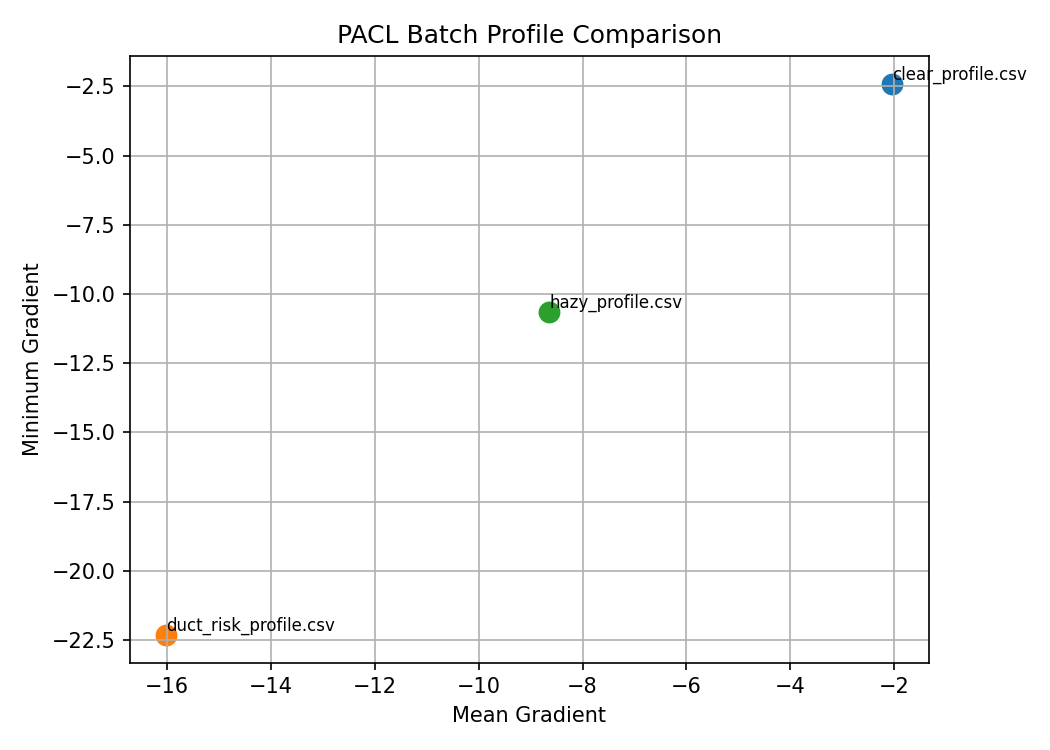
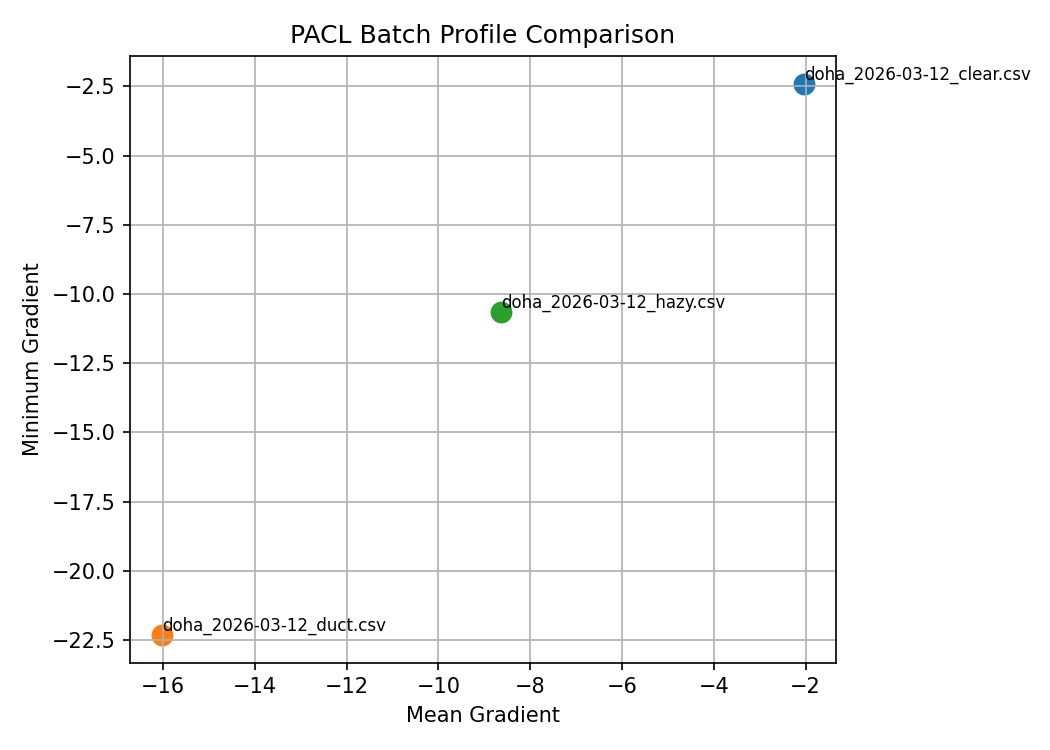
Add one-command PACL Layer 1 runner

diff --git a/docs/batch_report.md b/docs/batch_report.md
@@ -6,9 +6,9 @@ This report summarizes the current multi-profile PACL Layer 1 prototype.
 
 | File | Classification | Duct Risk | SWIR Quality | Radar Stability | Min Gradient | Mean Gradient |
 |---|---|---|---|---|---:|---:|
-| clear_profile.csv | CLEAR | Low | High | High | -2.396 | -2.034 |
-| duct_risk_profile.csv | DUCT_RISK | High | Medium | Low | -22.319 | -16.018 |
-| hazy_profile.csv | TRANSITIONAL | Moderate | Medium | Medium | -10.640 | -8.640 |
+| doha_2026-03-12_clear.csv | CLEAR | Low | High | High | -2.396 | -2.034 |
+| doha_2026-03-12_duct.csv | DUCT_RISK | High | Medium | Low | -22.319 | -16.018 |
+| doha_2026-03-12_hazy.csv | TRANSITIONAL | Moderate | Medium | Medium | -10.640 | -8.640 |
 
 ## Interpretation
 

diff --git a/README.md b/README.md
@@ -31,6 +31,14 @@ Build a small, credible research artifact showing:
 ## Status
 
 Early-stage research repository.
+
+## Run the PACL Layer 1 Pipeline
+
+From the repository root:
+
+```bash
+./run_pacl_layer1.sh
+
 ## Example Output
 
 Synthetic Gulf M-profile:
